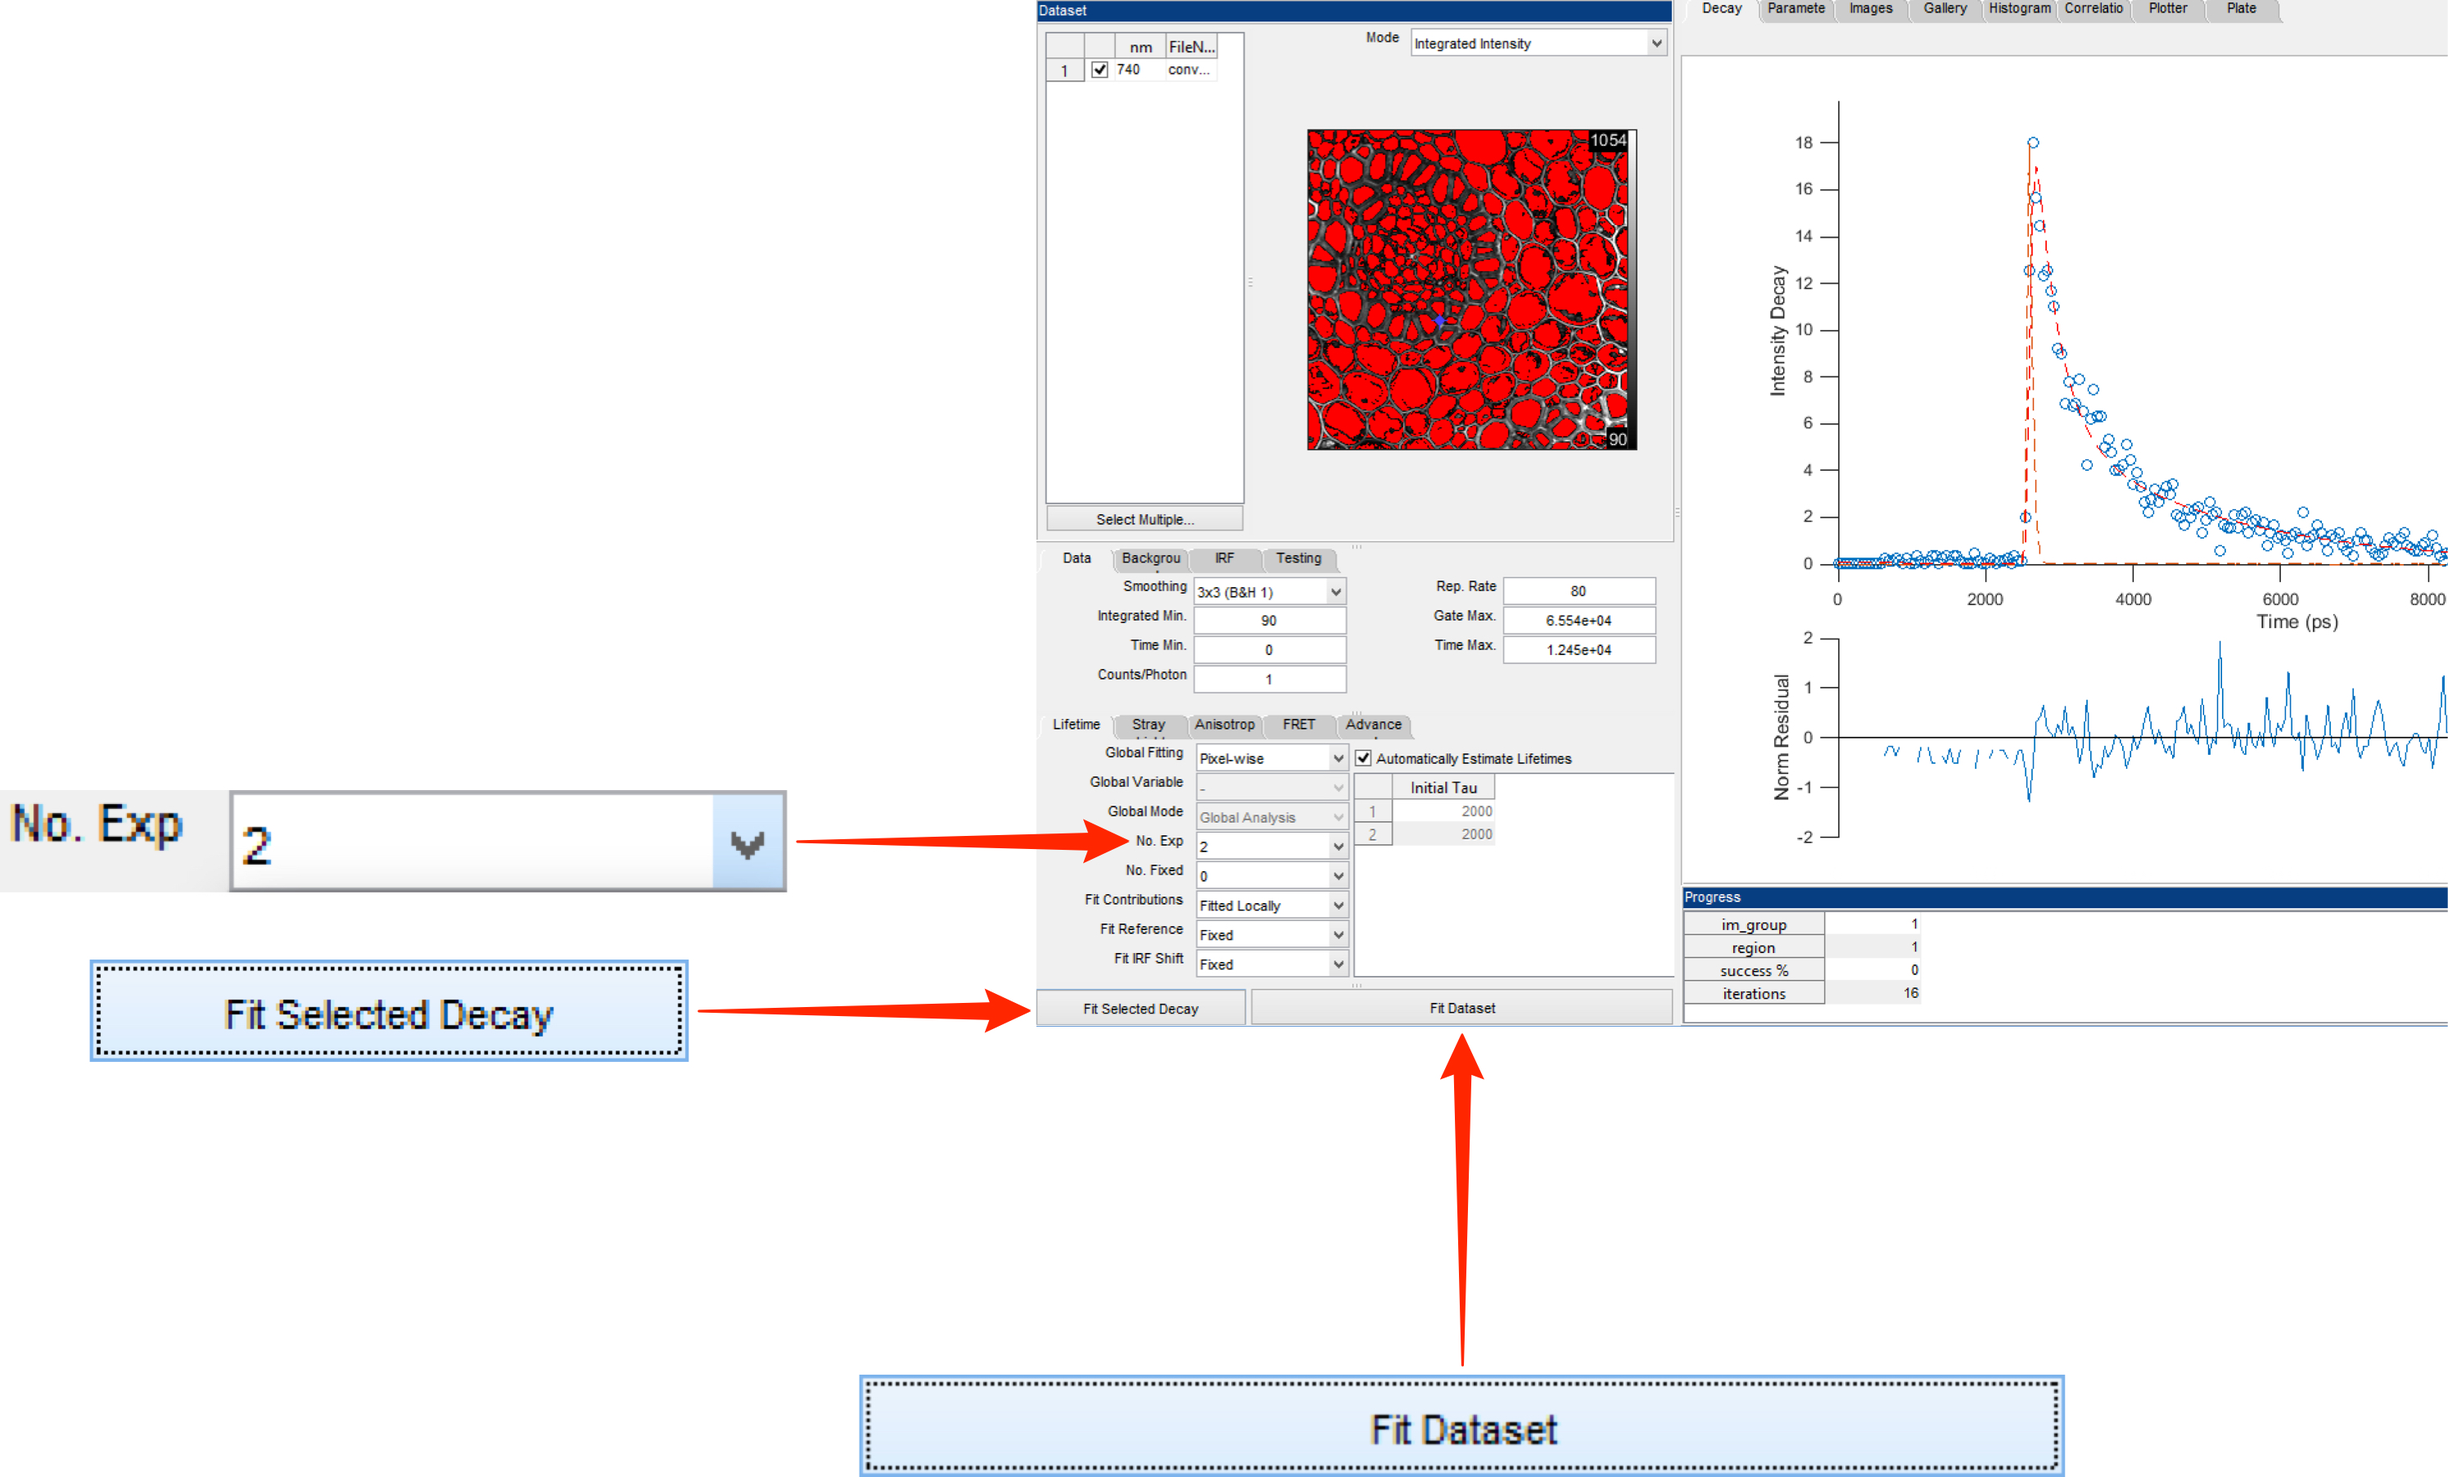
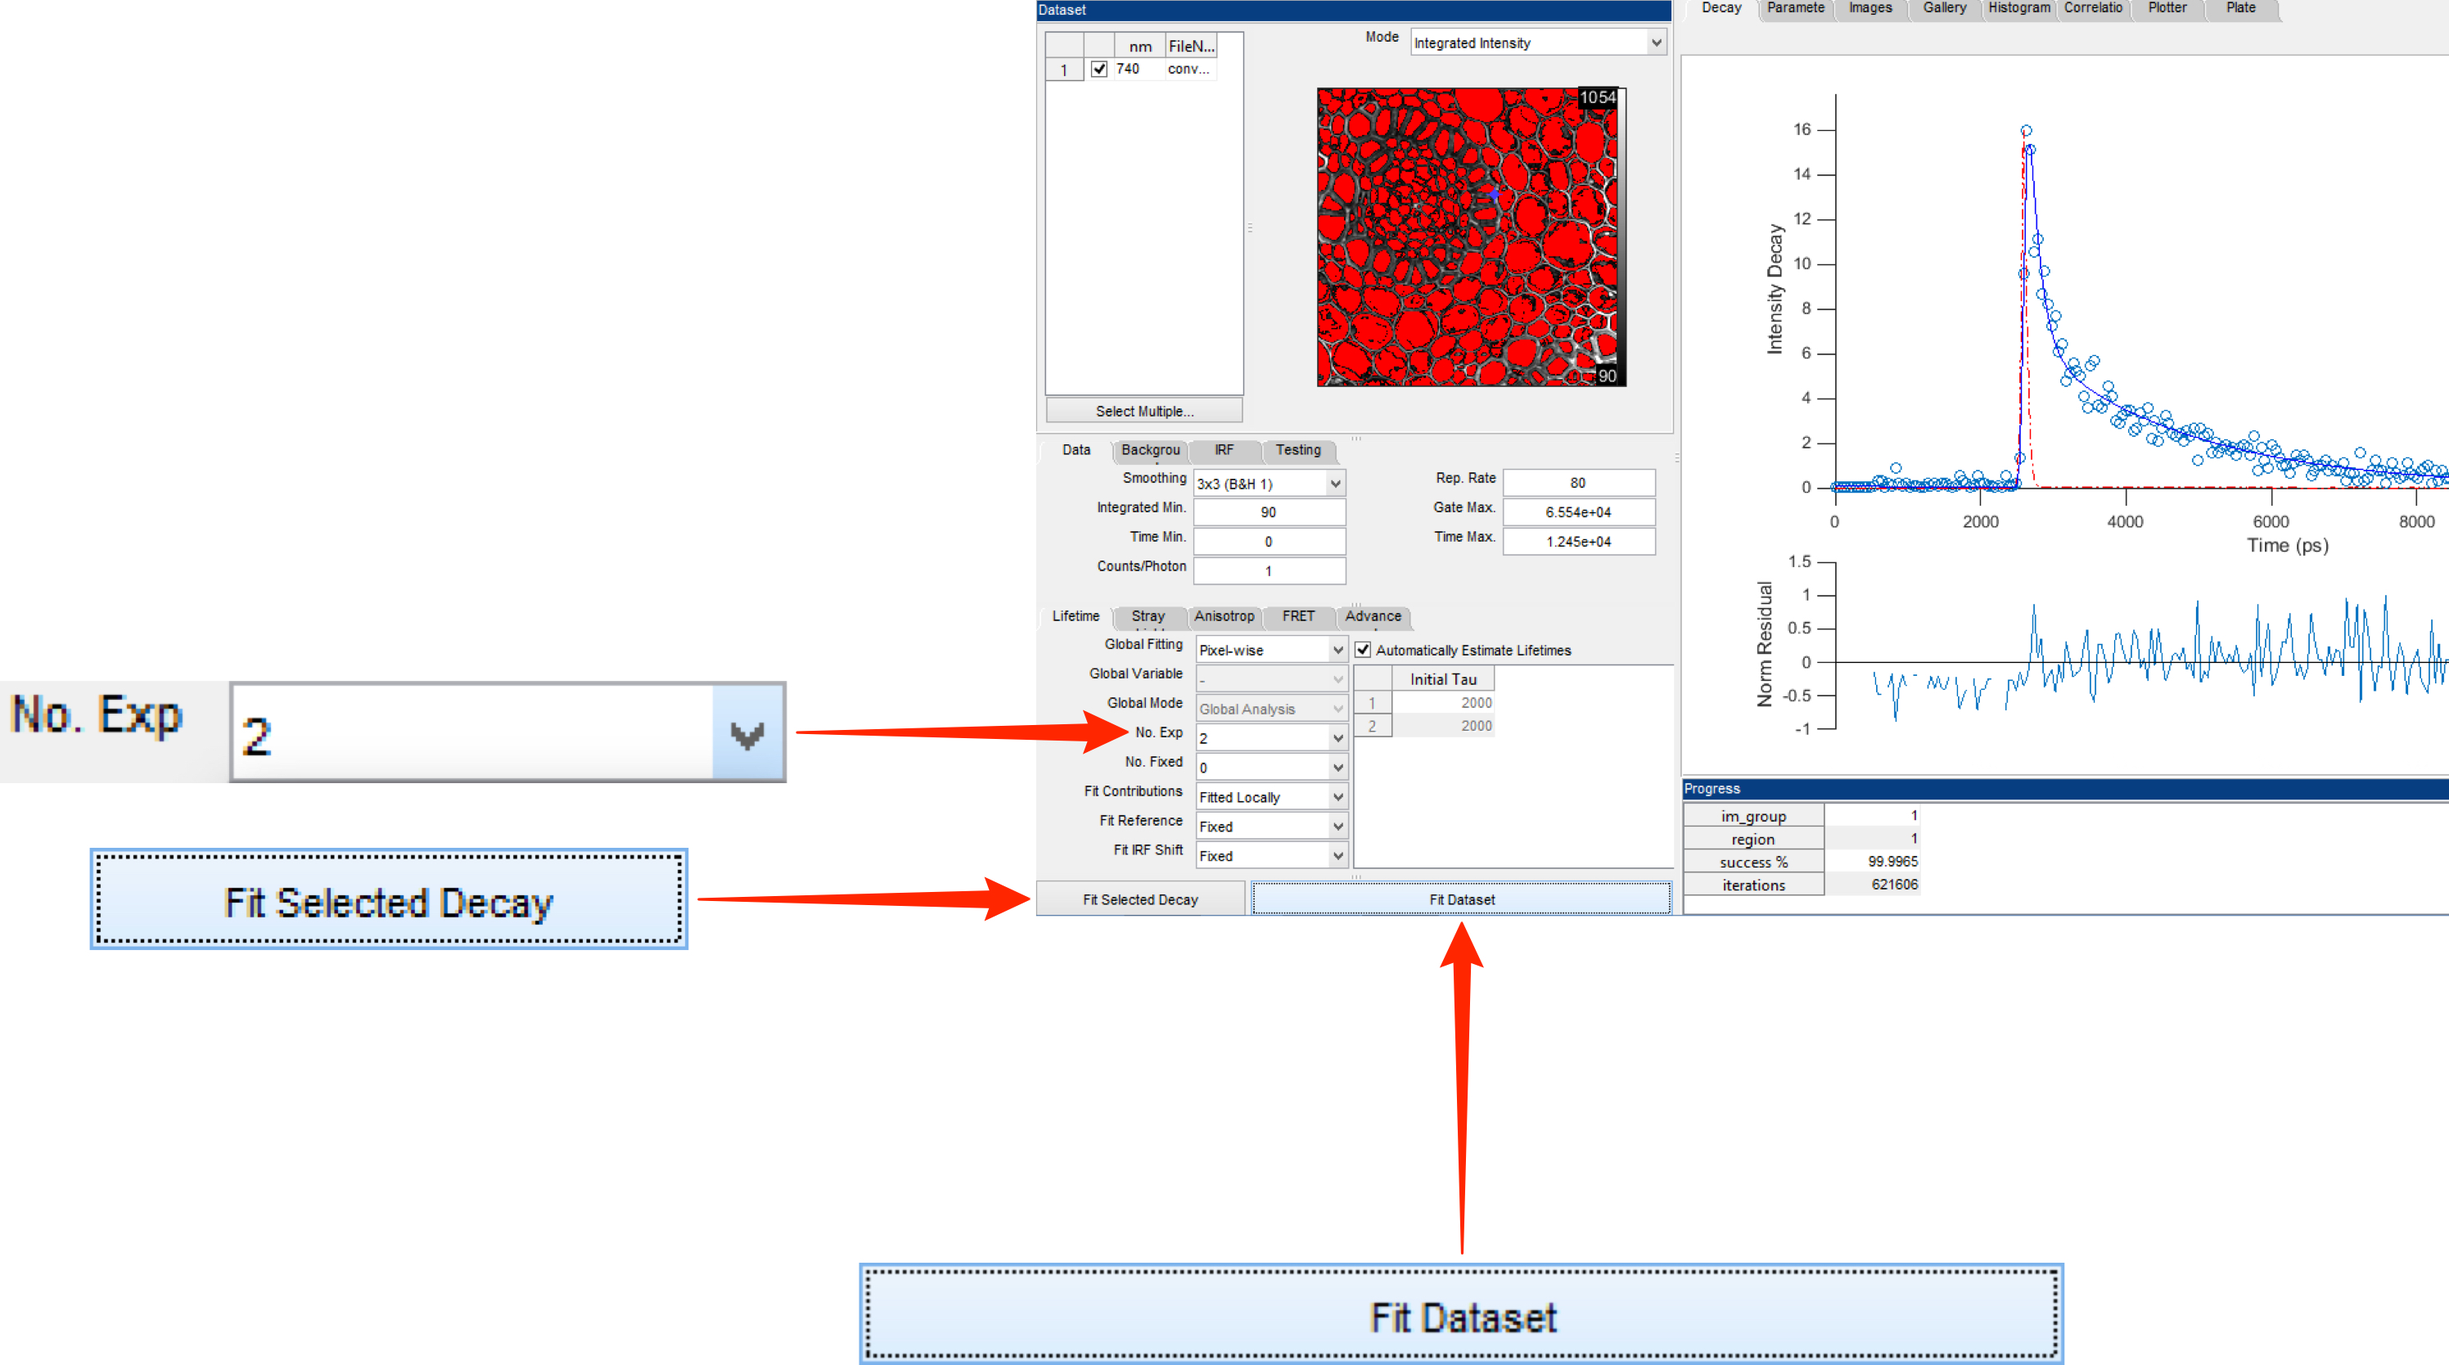
Addressing issues raised in above comments.

diff --git a/flimfit.html b/flimfit.html
@@ -19,7 +19,7 @@ description: FLIMfit is a software tool from, Imperial College London, that is d
 <a href="#introduction">Introduction</a><br />
 <a href="#install">Installing FLIMfit</a><br />
 <a href="#using">Using FLIMfit with OMERO</a><br />
-<a href="#disk">Loading data from disc</a><br />
+<a href="#disk">Loading data from disk</a><br />
 <a href="#single">Fitting data - single image</a><br />
 <a href="#results">Viewing Results</a><br />
 <a href="#multiple">Fitting data - multiple images</a><br />
@@ -42,13 +42,13 @@ description: FLIMfit is a software tool from, Imperial College London, that is d
 
 <p>To use the data with OMERO, download a Zip archive of the the files: <a href="http://downloads.openmicroscopy.org/help/resources/flimfit/example-files.zip" target="_blank" class="external-url">example-files.zip</a> (47.4 MB).</p>
 
-<p>Import the following folders to the OMERO server, letting OMERO name the datasets after the folder:</p>
+<p>Unzip the archive and import the following folders to the OMERO server, letting OMERO create new datasets from the folder, i.e. use default &quot;New from Folder&quot; for importing:</p>
 
 <ul>
 
-<li><span class="code-example">IRF-in-file</span> (contains the single data file)</li>
+<li><span class="code-example">IRF-in-file</span> (contains the single data file and the corresponding IRF file)</li>
 
-<li><span class="code-example">Multiple</span> (contains the multiple data files)</li>
+<li><span class="code-example">Multiple</span> (contains the multiple data files and the corresponding IRF file)</li>
 
 </ul>
 
@@ -130,7 +130,7 @@ description: FLIMfit is a software tool from, Imperial College London, that is d
 
 <p class="code-example">/Applications/MATLAB/MATLAB_Compiler_Runtime/v84/runtime/maci64:/Applications/MATLAB/MATLAB_Compiler_Runtime/v84/sys/os/maci64:/Applications/MATLAB/MATLAB_Compiler_Runtime/v84/bin/maci64:”</p>
 
-<p class="warning-text"><span class="warning-title">Ignore this</span> - the application will do it for you in at run-time.</p>
+<p class="warning-text"><span class="warning-title">Ignore this</span> - the application will do it for you at run-time.</p>
 
 </div><!-- End warning -->	
 <div class="line-block">
@@ -196,7 +196,7 @@ description: FLIMfit is a software tool from, Imperial College London, that is d
 <div class="line"><br /></div> <!-- end #line -->
 </div> <!-- end #line-block -->
 
-<li><p class="first">Click on the <span class="bold">OMERO</span> menu and select <span class="bold">Load FLIMfit data</span>.</p>
+<li><p class="first">Click on the <span class="bold">OMERO</span> menu and select <span class="bold">Load FLIM data</span>.</p>
 
 <p>The OMERO data tree will be displayed in a pop-up window.</p>
 
@@ -222,7 +222,7 @@ description: FLIMfit is a software tool from, Imperial College London, that is d
 
 <p class="top_link"><a href="#top"><img src="images/back_to_top.png" alt="Image for link to top of page" style="float: right;"/></a></p>
 
-<h2><a class="anchor" id="disk"></a>Loading data from disc</h2>
+<h2><a class="anchor" id="disk"></a>Loading data from disk</h2>
 
 <div class="line-block">
 <div class="line"><br /></div> <!-- end #line -->
@@ -262,11 +262,11 @@ description: FLIMfit is a software tool from, Imperial College London, that is d
 
 <ol class="step">
 
-<li><p class="first">A B/W image of a pollen grain is visible in the central window.</p>
+<li><p class="first">A greyscale intensity image of a pollen grain is visible in the upper part of the left-hand pane.</p>
 
 <p>Click on any pixel.</p>
 
-<p>Click on the <span class="bold">Decay</span> tab to the right.</p>
+<p>The <span class="bold">Decay</span> tab to the right should be selected by default.</p>
 
 <p>A plot of the time-resolved data in that pixel can be seen.</p>
 
@@ -292,7 +292,7 @@ description: FLIMfit is a software tool from, Imperial College London, that is d
 <p class="note-title">Note</p>
 <p class="note-text">A brief aside on Instrument Response Function (IRF)</p>
 <p class="note-text">In order to fit a model, FLIMfit requires some information about the system on which the data was acquired. It can get this information from what is referred to as an IRF - the system’s response to a known input.</p>
-<p class="note-text">In this example the IRF is read from a second .sdt file acquired on the same system, on the same day, as the pollen grain image. This is an image of a sample of gold nano rods. These have the convenient property of re-emitting the laser excitation pulse across a wide range of wavelengths. They therefore provide a pulse of light at the correct wavelength to pass into the detection channel which is of known (very short) duration.</p>
+<p class="note-text">In this example the IRF is read from a second .sdt file acquired on the same system, on the same day, as the pollen grain image. This is an image of a sample of gold nano rods. These have the convenient property of re-emitting the laser excitation pulse across a wide range of wavelengths. They therefore provide a pulse of light, of known (very short) duration, at the correct wavelength to pass into the detection channel.</p>
 </div><!-- End note -->
 
 <div class="line-block">
@@ -349,7 +349,7 @@ description: FLIMfit is a software tool from, Imperial College London, that is d
 <div class="line"><br /></div> <!-- end #line -->
 </div> <!-- end #line-block -->
 
-<img alt="../images/flimfitIRFDecay.jpg" class="align-center" src="images/flimfitIRFDecay.jpg" style="width: 100%;" />
+<img alt="../images/flimfitIRFNano.jpg" class="align-center" src="images/flimfitIRFNano.jpg" style="width: 100%;" />
 
 <div class="line-block">
 <div class="line"><br /></div> <!-- end #line -->
@@ -365,7 +365,7 @@ description: FLIMfit is a software tool from, Imperial College London, that is d
 
 <p>Click <span class="bold">Fit Selected Decay</span>.</p>
 
-<p>A broken red line appears in the fitted model.</p>
+<p>A broken blue line appears in the fitted model.</p>
 
 <p>Normalised Residuals are displayed below data.</p>
 
@@ -391,11 +391,13 @@ description: FLIMfit is a software tool from, Imperial College London, that is d
 
 <p>To try a bi-exponential fit, increase the <span class="bold">No Expo</span> to <span class="bold">2</span> and click <span class="bold">Fit Selected Decay</span>.</p>
 
-<p>The fit should then look acceptable.</p>
+<p>The fit of the broken blue line should then look acceptable.</p>
 
 <p>Confirm this by selecting a few different pixels.</p>
 
 <p>When confirmed, click <span class="bold">Fit Dataset</span>.</p>
+
+<p>The blue line becomes solid when the dataset has been fitted.</p>
 
 <div class="line-block">
 <div class="line"><br /></div> <!-- end #line -->
@@ -600,7 +602,9 @@ description: FLIMfit is a software tool from, Imperial College London, that is d
 <div class="line"><br /></div> <!-- end #line -->
 </div> <!-- end #line-block -->
 
-<li><p class="first">From the <span class="bold">Image</span> menu, select <span class="bold">Export Image...</span> to save selected images to disk for use in publications.</p>
+<li><p class="first">From the <span class="bold">OMERO</span> menu, select <span class="bold">Export Image...</span> to save selected images to OMERO.</p>
+
+<p>From the <span class="bold">File</span> menu, select <span class="bold">Export Image...</span> to save selected images to disk.</p>
 
 <p>Select <span class="bold">Export Histograms...</span> to save the histogram data to disk as a CSV file.</p>
 
@@ -608,7 +612,7 @@ description: FLIMfit is a software tool from, Imperial College London, that is d
 <div class="line"><br /></div> <!-- end #line -->
 </div> <!-- end #line-block -->
 
-<img alt="../images/flimfitExport.jpg" class="align-left" src="images/flimfitExport.jpg" style="width: 70%;" />
+<img alt="../images/flimfitExport.jpg" class="align-left" src="images/flimfitExport.jpg" style="width: 100%;" />
 
 <div class="line-block">
 <div class="line"><br /></div> <!-- end #line -->
@@ -652,7 +656,7 @@ description: FLIMfit is a software tool from, Imperial College London, that is d
 
 <ol class="step">
 
-<li><p class="first">Click on the <span class="bold">OMERO</span> menu and select <span class="bold">Load FLIMfit data from a dataset</span>.</p>
+<li><p class="first">Click on the <span class="bold">OMERO</span> menu and select <span class="bold">Load FLIM data from a dataset</span>.</p>
 
 <p>The OMERO data tree will be displayed in a pop-up window.</p>
 
@@ -696,9 +700,11 @@ description: FLIMfit is a software tool from, Imperial College London, that is d
 
 <li><p class="first">To load the IRF for the multiple FOVs from the attachment on the dataset, select the <span class="bold">OMERO</span> menu and choose <span class="bold">Load IRF (Annotation)</span>.</p>
 
-<p>The IRF data will be visible as a red peak on the plot in the <span class="bold">Decay</span> tab.</p>
-
 <p>In the dialog box, select the folder: &nbsp;&nbsp;&nbsp;&nbsp;&nbsp;&nbsp;&nbsp;<span class="code-example">Multiple</span>.</p>
+
+<p>Click <span class="bold">Open</span> and then click <span class="bold">OK</span>.</p>
+
+<p>The IRF data will be visible as a red peak on the plot in the <span class="bold">Decay</span> tab.</p>
 
 <div class="line-block">
 <div class="line"><br /></div> <!-- end #line -->
